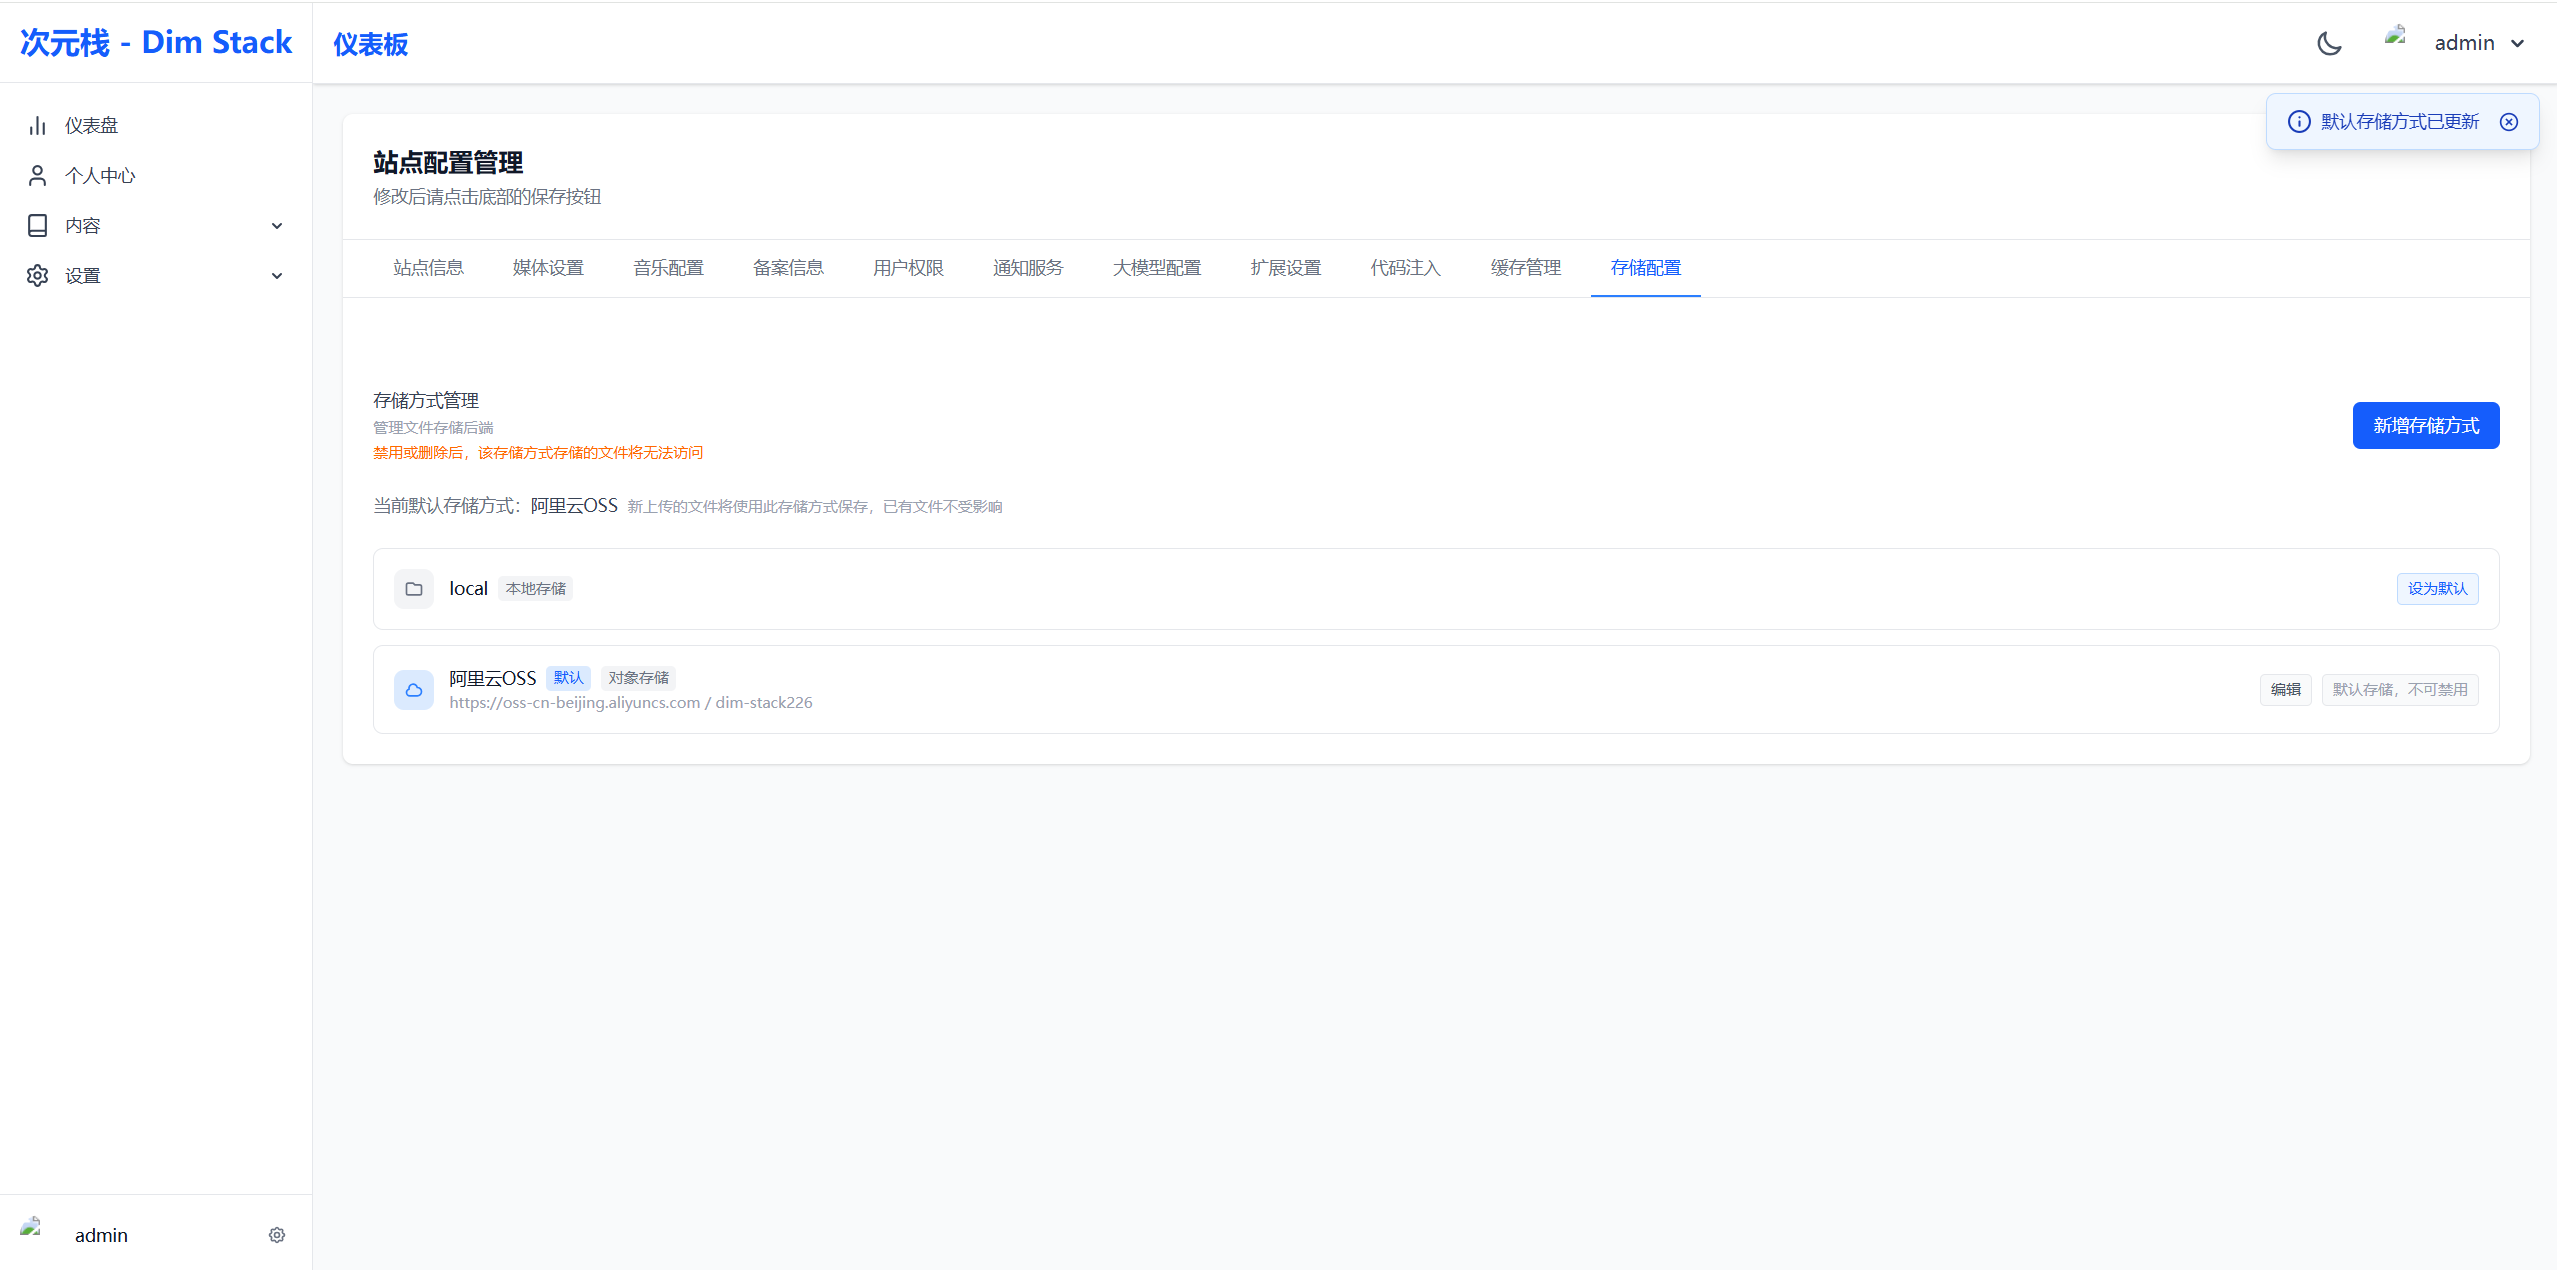
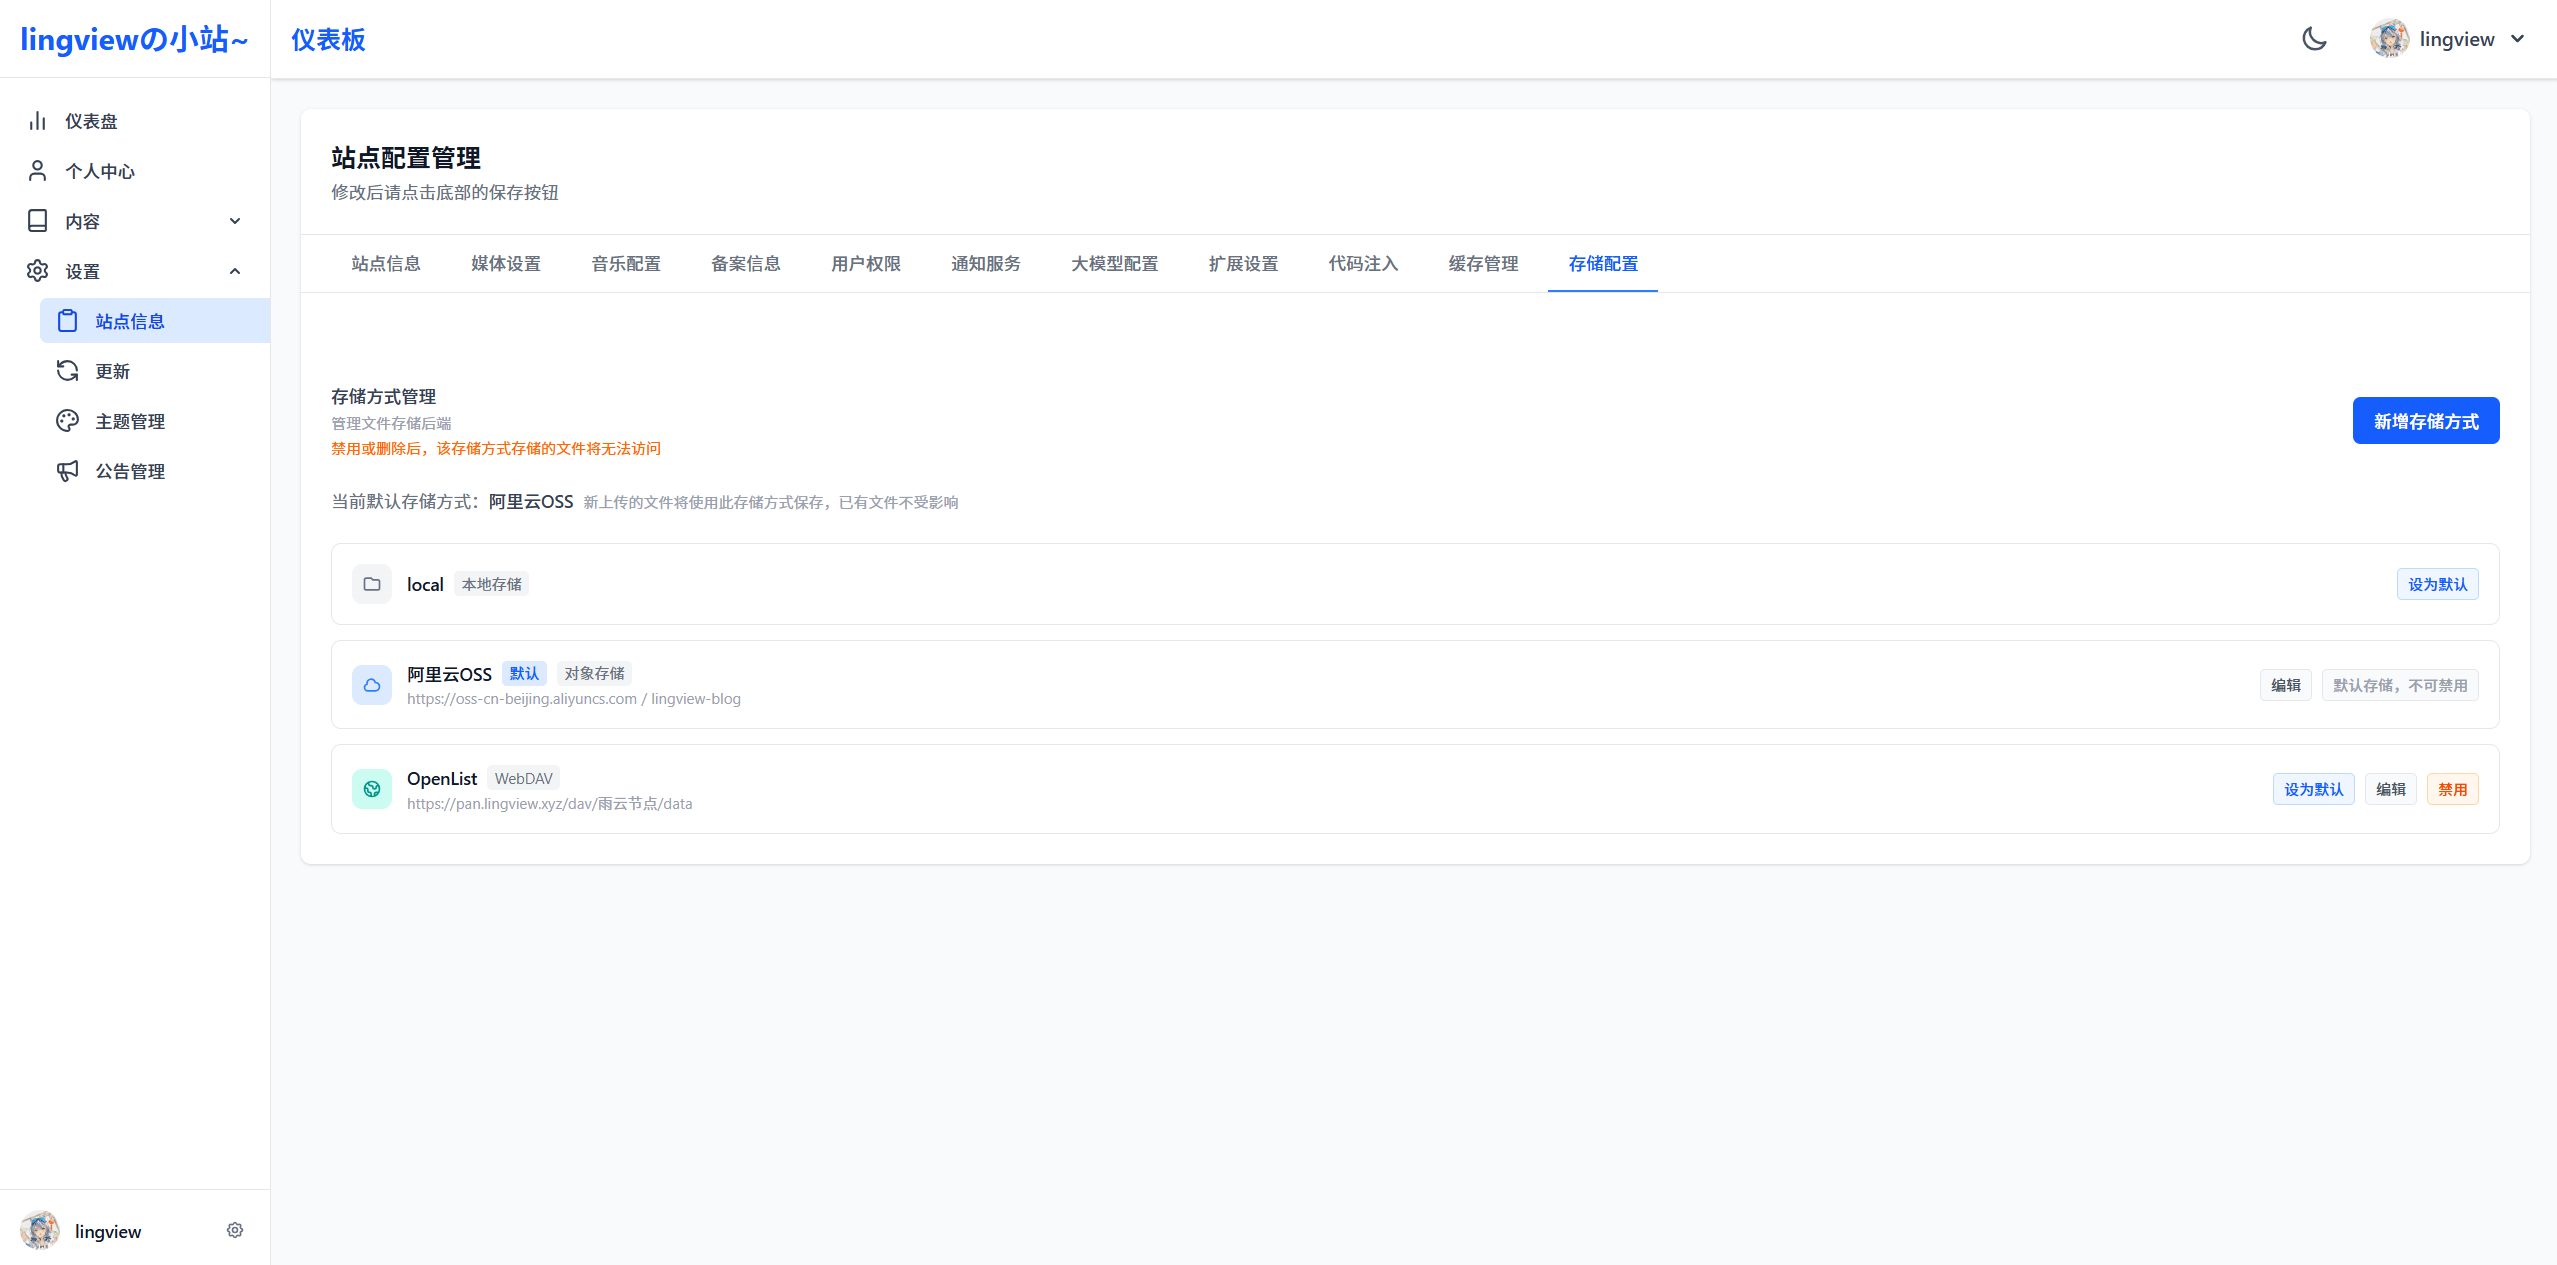
docs(storage): 添加WebDav存储方式说明
添加WebDav存储方式说明

diff --git a/docs/features/storage.md b/docs/features/storage.md
@@ -1,6 +1,8 @@
 # 外置存储
 
-系统支持将附件存储到外部存储服务，当前支持 S3 协议兼容的对象存储（阿里云 OSS、腾讯云 COS 等）
+系统支持将附件存储到外部存储服务，当前支持：
+- **S3 协议兼容**的对象存储（阿里云 OSS、腾讯云 COS 测试无问题）
+- **WebDAV 协议**的存储（OpenList 测试无问题）
 
 ## 启用方式
 
@@ -21,9 +23,59 @@
 - 删除前需先切换默认存储方式
 - 删除后，该存储方式下的文件记录仍保留在数据库中，但无法访问
 
+## S3 协议兼容存储
+
+### 配置字段
+
+![img.png](../../images/storage_2.png)
+
+| 字段                | 说明                                           |
+|-------------------|----------------------------------------------|
+| 端点                | 服务地址，如 `https://oss-cn-beijing.aliyuncs.com` |
+| 区域                | 存储区域，如 `华北2（北京）`                             |
+| 存储桶               | 存储桶名称                                        |
+| 访问密钥 ID           | AccessKey ID                                 |
+| 访问密钥              | AccessKey Secret                             |
+| Path Style Access | MinIO 等自建服务需要开启                              |
+
+### 文件访问
+
+S3 存储的文件通过 Presigned URL（预签名 URL）访问：
+
+- 用户请求 `/file/{accessKey}` 时，后端生成临时有效的预签名 URL
+- 浏览器通过 302 重定向直接从对象存储下载文件
+- 预览链接有效期 1 小时，下载链接有效期 5 分钟
+
+## WebDAV 存储
+
+### 配置字段
+
+![img.png](../../images/storage_3.png)
+
+| 字段        | 说明                                         |
+|-----------|--------------------------------------------|
+| WebDAV 地址 | 完整地址，如 `https://pan.lingview.xyz/dav/test` |
+| 用户名       | 登录用户名                                      |
+| 密码        | 登录密码                                       |
+
+注：WebDAV 地址应写完整路径
+
+### 文件访问
+
+WebDAV 不支持预签名 URL，文件访问走后端**流式转发**：
+
+- 用户请求 `/file/{accessKey}` 时，后端从 WebDAV 服务器读取文件
+- 边读边向浏览器转发，不等待完整下载
+
+### 注意事项
+
+- 后端带宽压力：WebDAV 文件全部经后端转发，比 S3 的 302 重定向占用更多后端带宽
+
 ## 附件存储迁移
 
 在全局附件管理中，点击「存储迁移」按钮，可将附件从一个存储方式迁移到另一个。
+
+![img.png](../../images/storge_3.png)
 
 ### 迁移流程
 
@@ -44,11 +96,3 @@
 - 迁移过程中文件访问不受影响（仍在源存储）
 - 迁移成功后源存储的旧文件会被自动删除
 - 删除源文件失败不影响迁移结果
-
-## 文件访问
-
-S3 存储的文件通过 Presigned URL（预签名 URL）访问：
-
-- 用户请求 `/file/{accessKey}` 时，后端生成临时有效的预签名 URL
-- 浏览器通过 302 重定向直接从对象存储下载文件
-- 预览链接有效期 1 小时，下载链接有效期 5 分钟